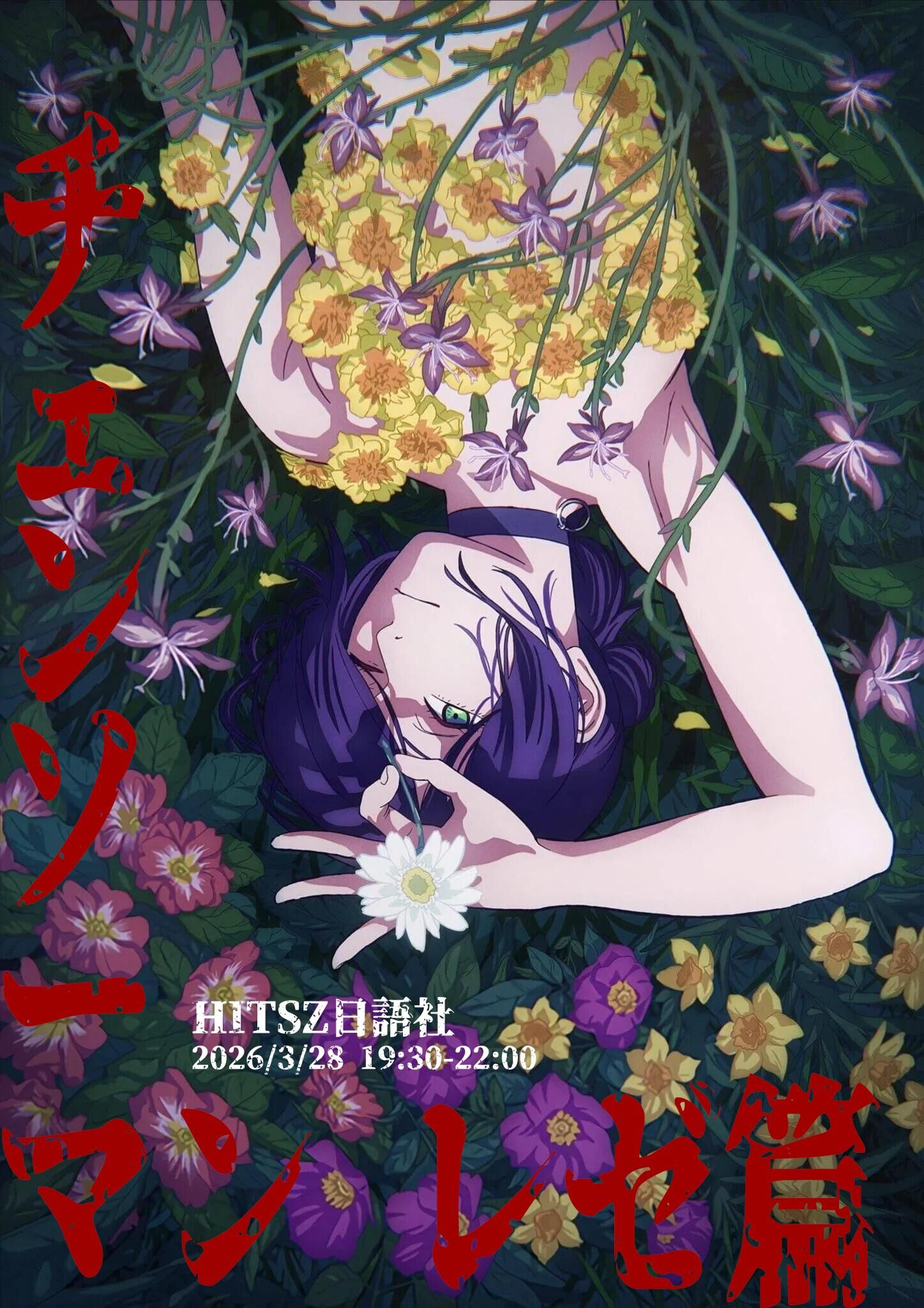
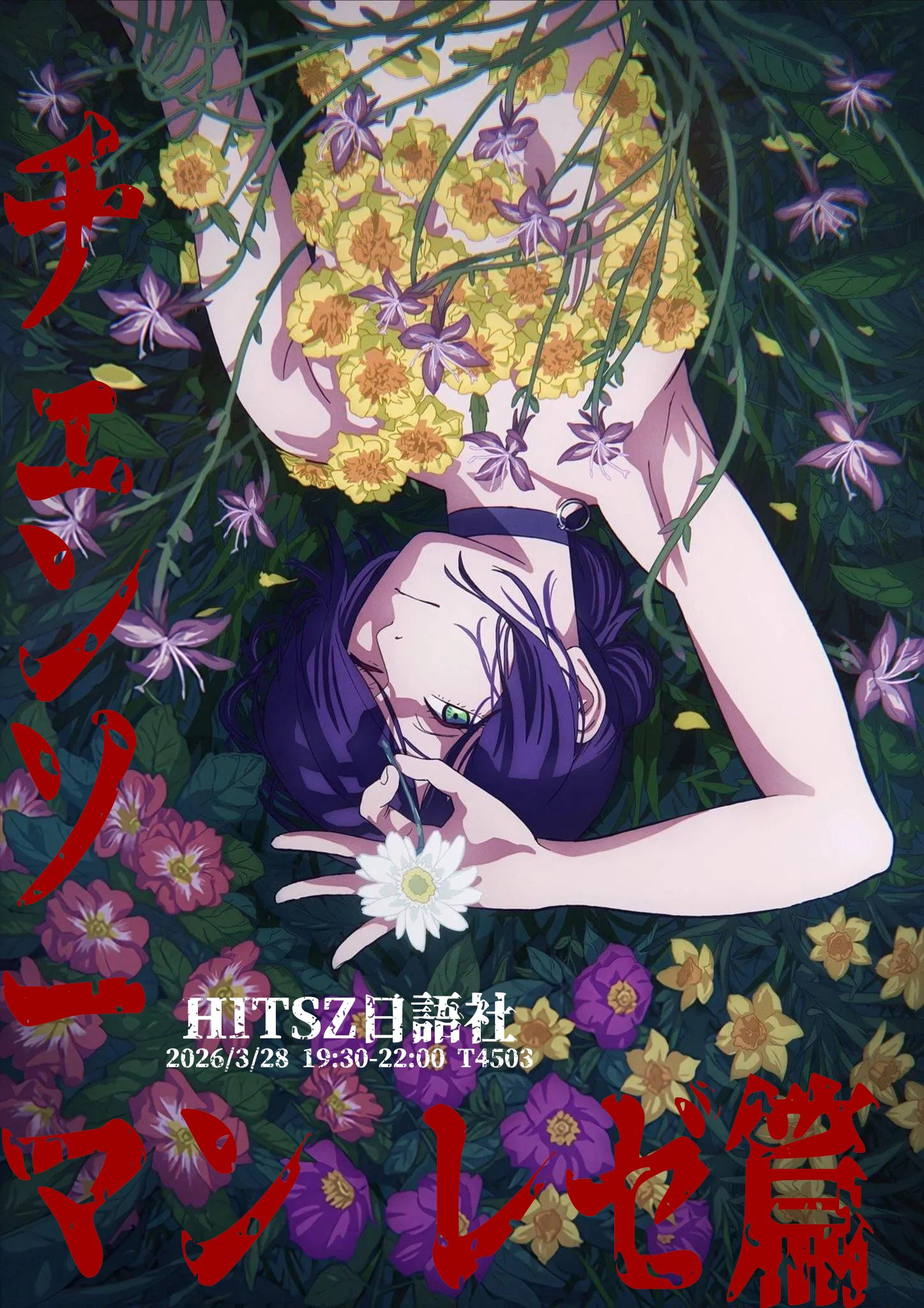
feat: 添加地点

Changed region(s): [[0.1866, 0.75, 0.5909, 0.8438]]

diff --git a/content/events/chainsawkaguya.md b/content/events/chainsawkaguya.md
@@ -4,14 +4,14 @@ date: 2026-03-26
 draft: false
 ---
 
-## 🎬 日语社周末放映会公告
+## 🎬 日语社周末放映会公告（地点确定！）
 
 大家好！本周末日语社将带来两场放映活动，欢迎大家前来参与✨
 
 <div style="display: flex; gap: 16px; justify-content: center; flex-wrap: wrap;">
 
 {{< figure src="/image/reze.jpg" width="45%" >}}
-{{< figure src="/image/kaguya.jpeg" width="45%" >}}
+{{< figure src="/image/kaguya.jpg" width="45%" >}}
 
 
 </div>
@@ -22,7 +22,7 @@ draft: false
 
 - **合办方**：日语社 × 雪璇  
 - **时间**：3月29日（周日）19:30 - 22:00  
-- **地点**：待定（后续通知）  
+- **地点**：T4503  
 
 本场为合办特别放映，欢迎大家一起沉浸在这部动漫电影的世界中！
 
@@ -31,7 +31,7 @@ draft: false
 ## 🎥 ② 日语社单独放映：「电锯人 蕾塞篇」
 
 - **时间**：3月28日（周六）19:30 - 22:00  
-- **地点**：待定  
+- **地点**：T4503  
 
 在这个夜晚，与日语社一起潜入东京那场苦涩而绚烂的雨夜。  
 
@@ -51,13 +51,6 @@ draft: false
 
 > 「私の匂い、まだ火薬の匂いするかな？」  
 > ——“我身上的味道，闻起来还是像硝烟一样吗？”
-
----
-
-## 📌 注意事项
-
-- 地点将在后续统一通知，请留意群消息  
-- 建议提前到场，占好位置  
 
 ---
 
